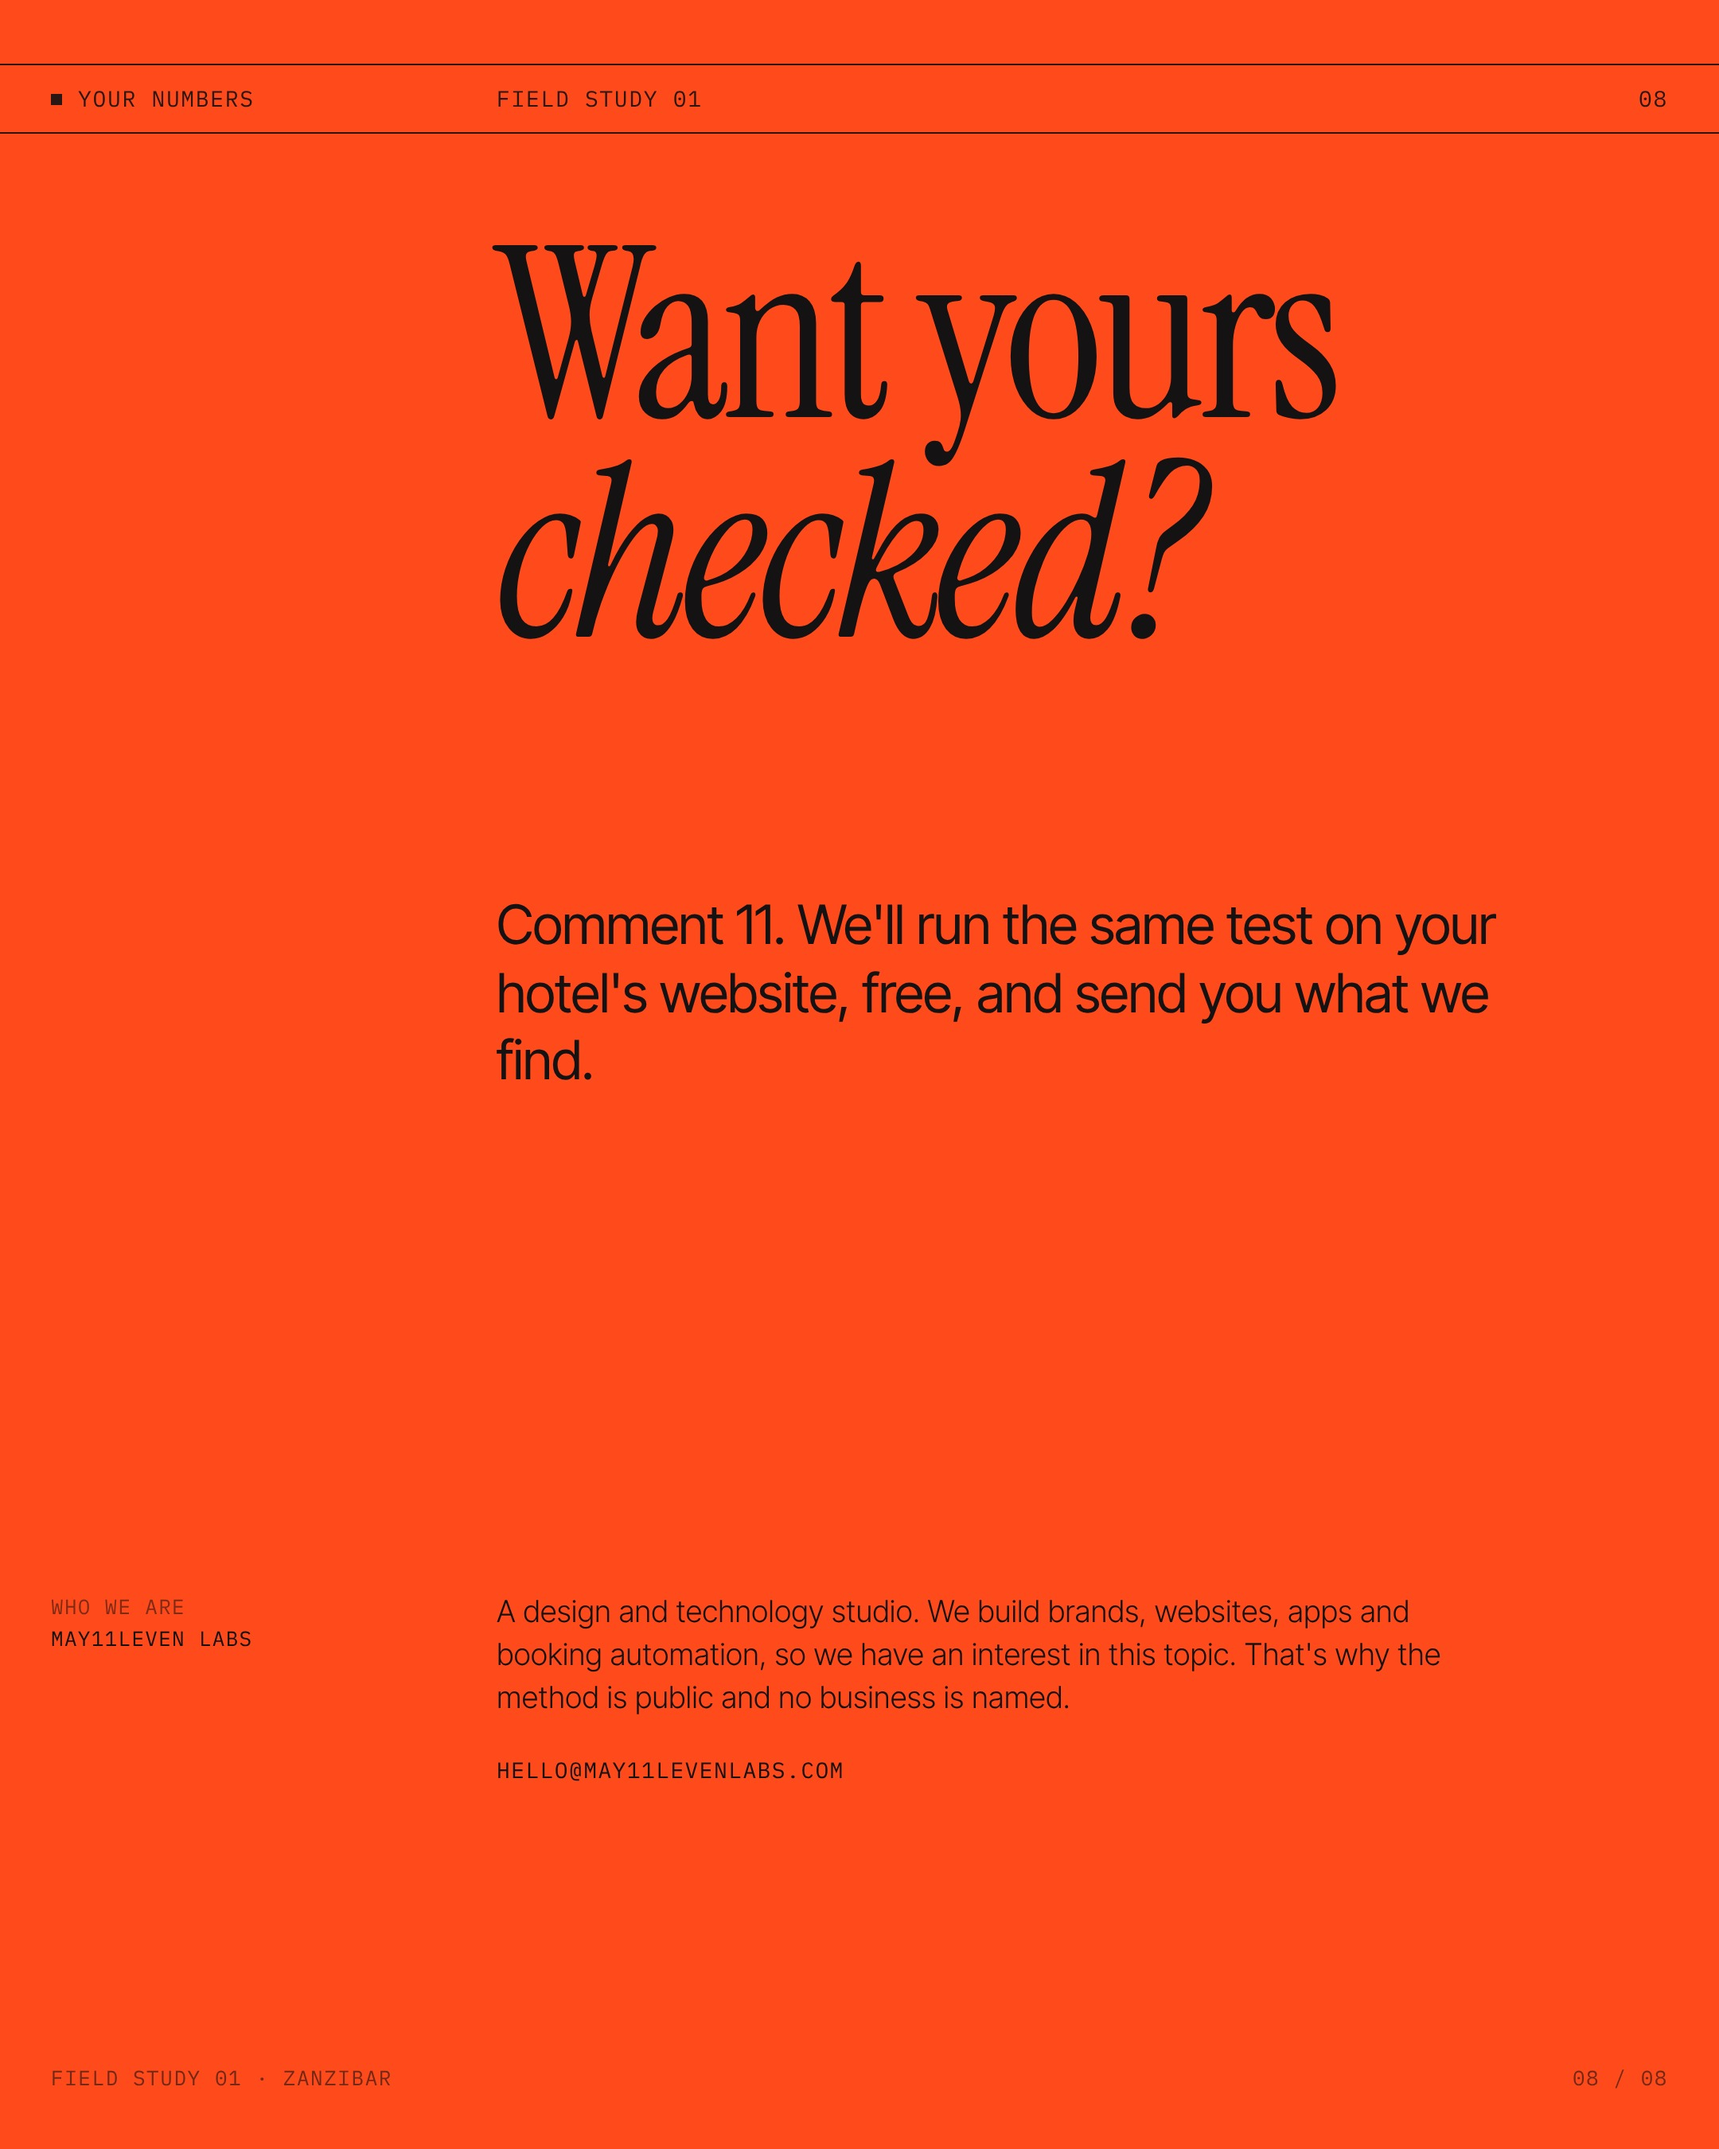
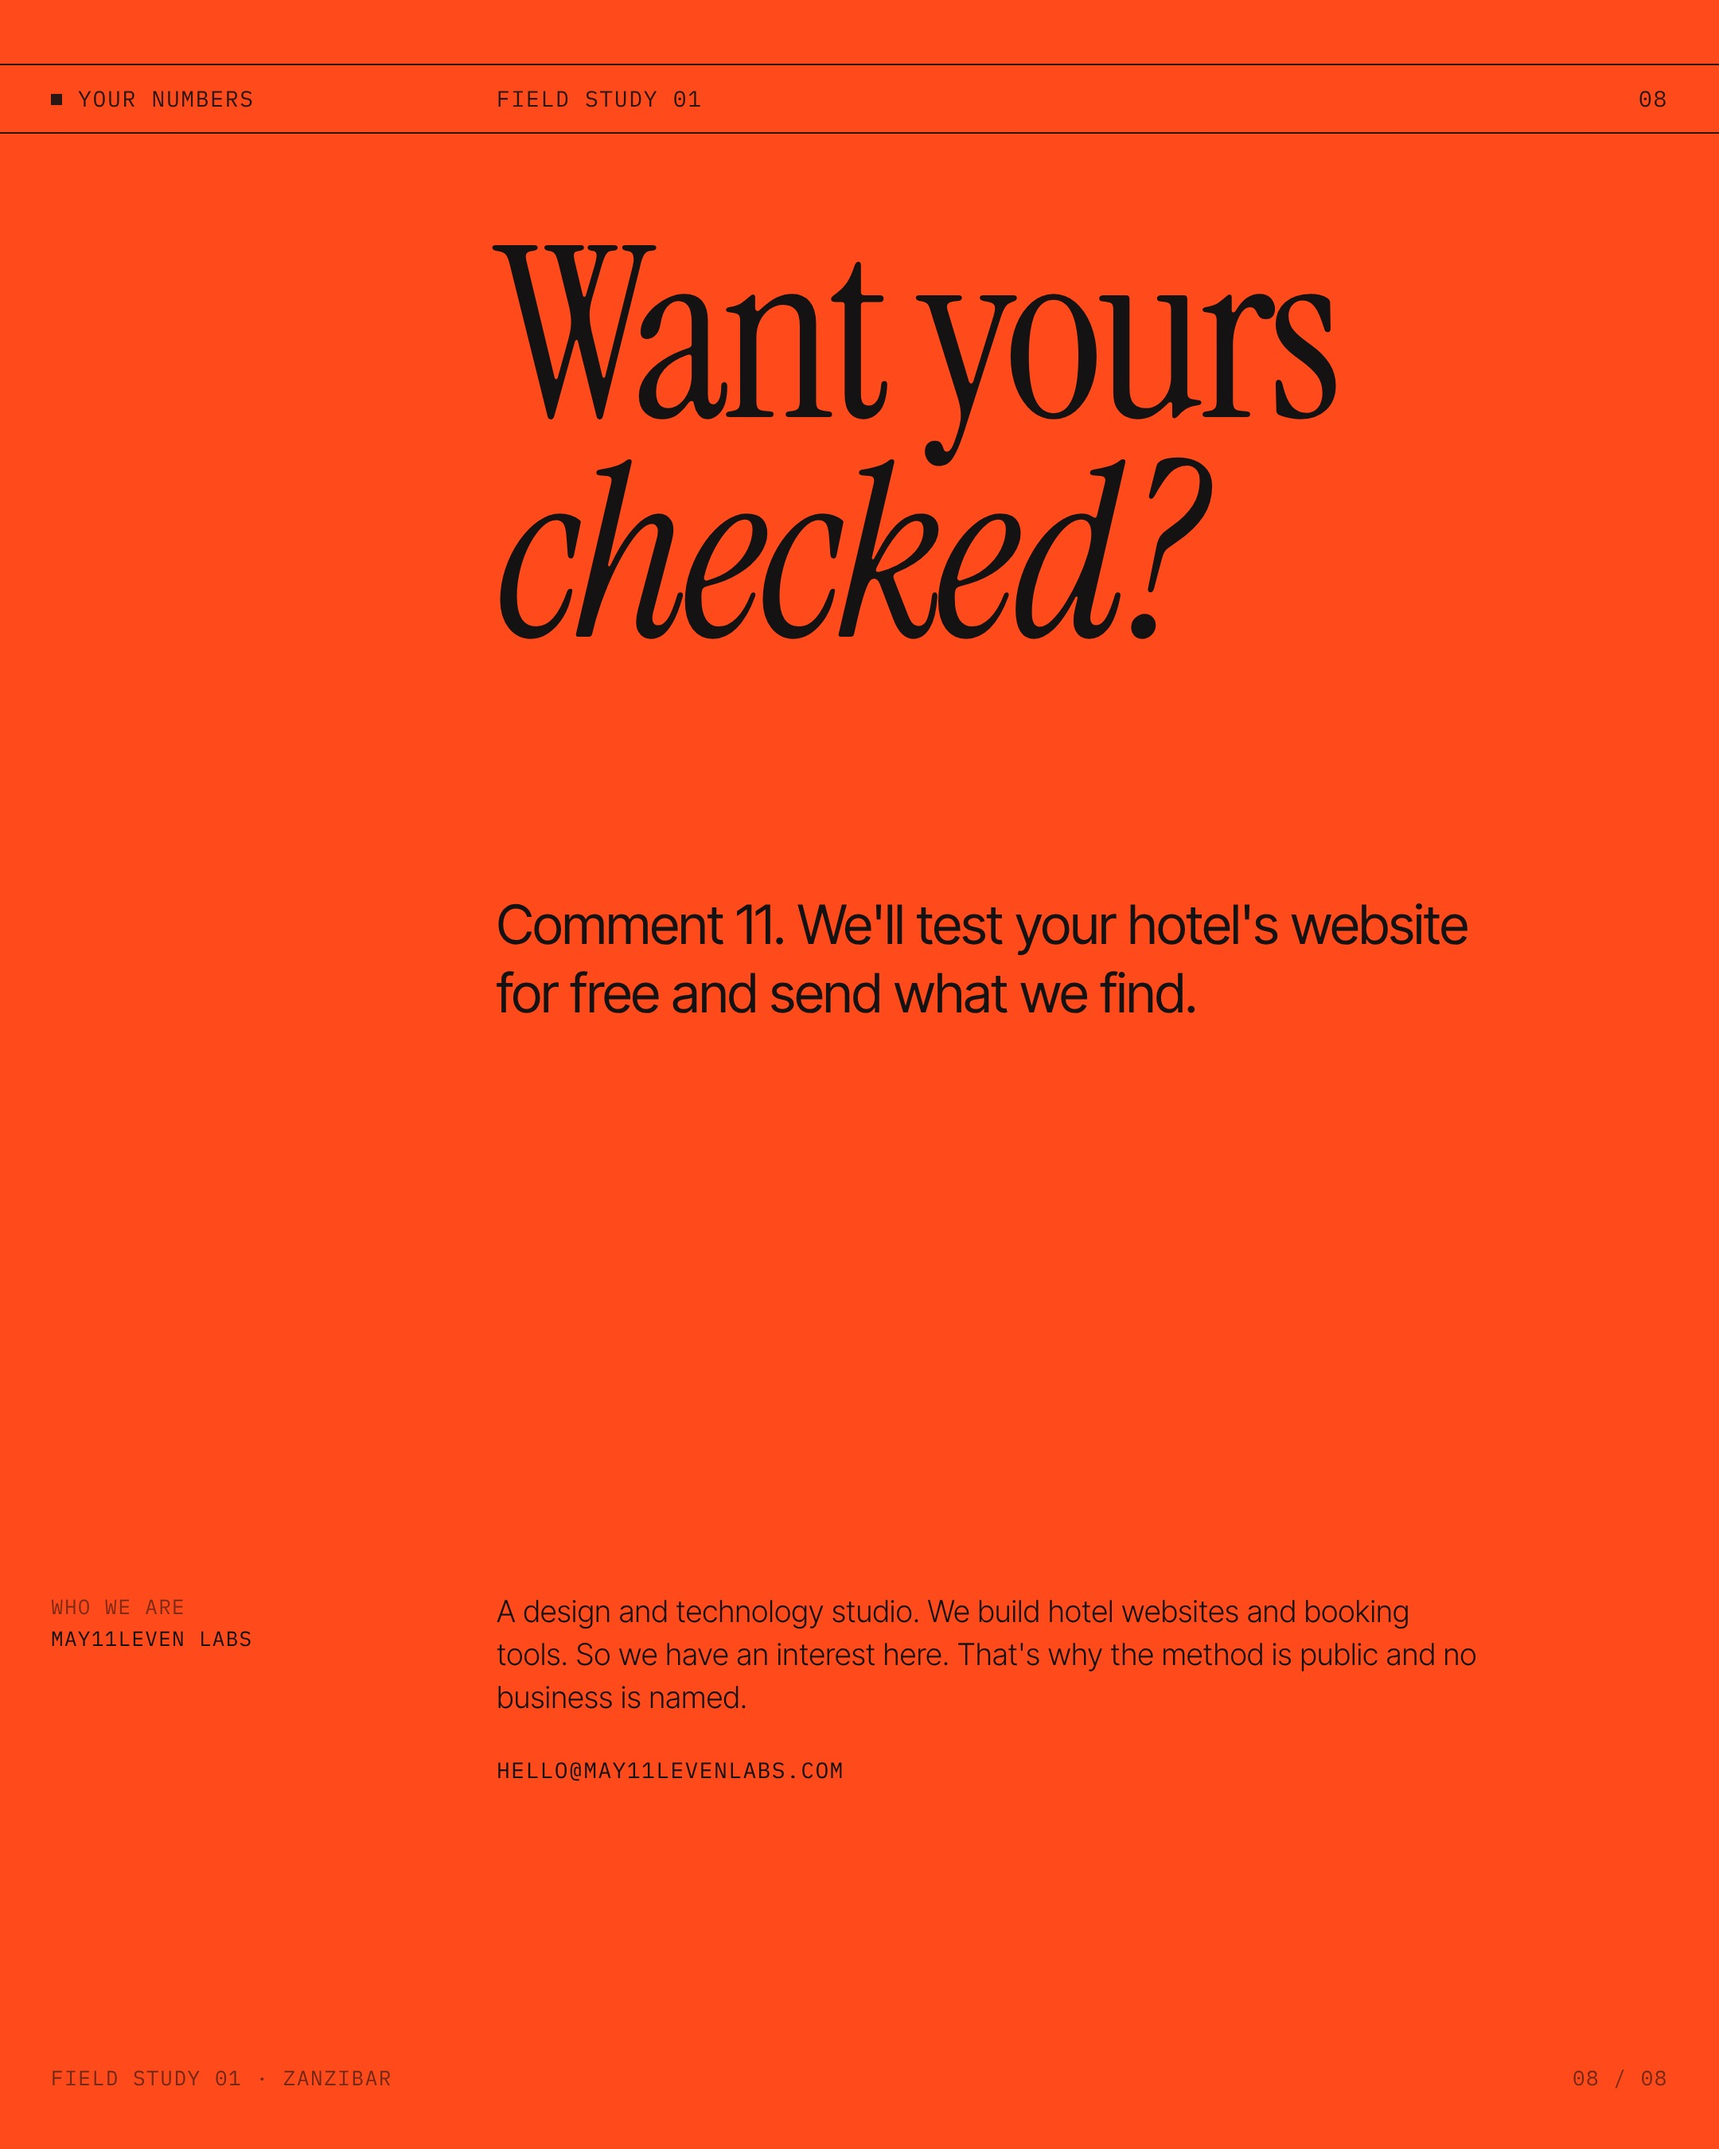
Field Study 01: cut two long lines to the word limits
Claude-Session: https://claude.ai/code/session_019pcNfRHGxsRYW5k4Gc3WRr

Changed region(s): [[0.2792, 0.4044, 0.8685, 0.4978], [0.2792, 0.7467, 0.8375, 0.8089]]

diff --git a/concepts/field-study-01/report2.html b/concepts/field-study-01/report2.html
@@ -142,9 +142,9 @@ body{background:#666;font-family:T;-webkit-font-smoothing:antialiased}
 <section class="page red" id="p8">
   <div class="hd"><b>Your numbers</b><span>Field study 01</span><span style="text-align:right">08</span></div>
   <div class="c" style="top:142px"><h2 class="h" style="font-size:150px">Want yours<br><i>checked?</i></h2></div>
-  <div class="c" style="top:560px"><p style="font-size:34px;line-height:1.25;letter-spacing:-.01em;max-width:640px">Comment 11. We'll run the same test on your hotel's website, free, and send you what we find.</p></div>
+  <div class="c" style="top:560px"><p style="font-size:34px;line-height:1.25;letter-spacing:-.01em;max-width:640px">Comment 11. We'll test your hotel's website for free and send what we find.</p></div>
   <div class="lab" style="top:1000px"><span>Who we are</span>May11Leven Labs</div>
-  <div class="c" style="top:1000px"><p class="p" style="font-size:19px;max-width:620px">A design and technology studio. We build brands, websites, apps and booking automation, so we have an interest in this topic. That's why the method is public and no business is named.</p><p style="font-family:M;font-size:14px;letter-spacing:.05em;margin-top:22px">HELLO@MAY11LEVENLABS.COM</p></div>
+  <div class="c" style="top:1000px"><p class="p" style="font-size:19px;max-width:620px">A design and technology studio. We build hotel websites and booking tools. So we have an interest here. That's why the method is public and no business is named.</p><p style="font-family:M;font-size:14px;letter-spacing:.05em;margin-top:22px">HELLO@MAY11LEVENLABS.COM</p></div>
   <div class="ft"><span>Field study 01 · Zanzibar</span><span>08 / 08</span></div>
 </section>
 
